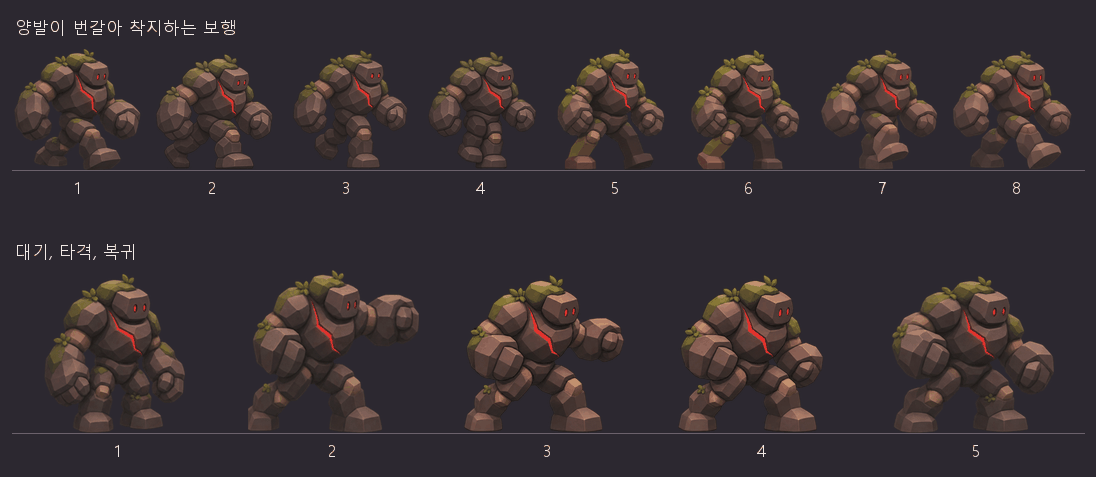
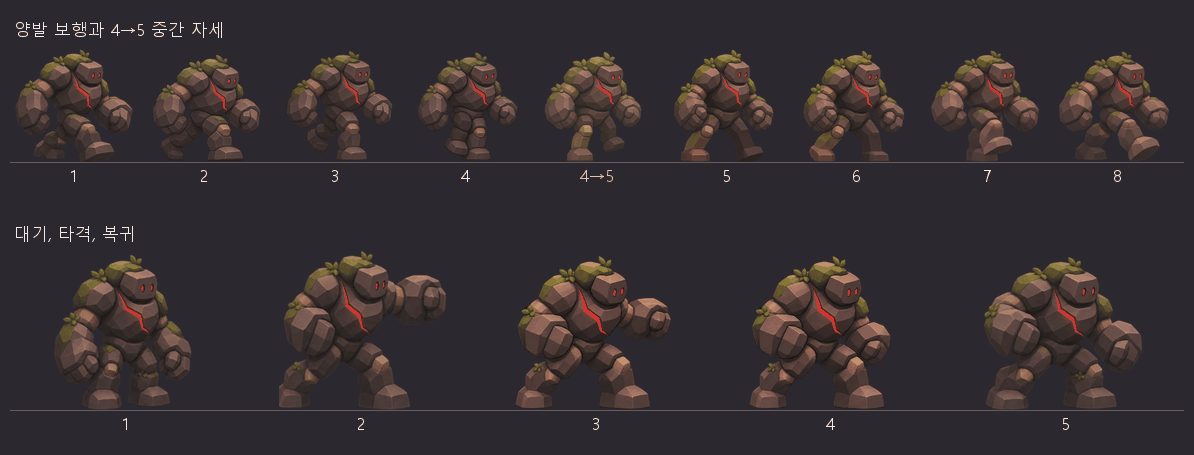
fix(vfx): 이끼바위 골렘의 4·5번 보행 사이 자세 추가

Changed region(s): [[0.0, 0.0308, 0.9927, 0.4], [0.0, 0.4923, 0.9927, 0.9538]]

diff --git a/Assets/Tests/PlayMode/GroundedUnitPosePlayModeTests.cs b/Assets/Tests/PlayMode/GroundedUnitPosePlayModeTests.cs
@@ -17,12 +17,12 @@ namespace WordOnline.Tests
         private const float WalkSpeed = 0.5f;
 
         [UnityTest]
-        public IEnumerator TreeGolemWalksAtBothTickRatesAndShowsTheHitBeforeRecovery() => CheckBothTickRates("TreeGolem");
+        public IEnumerator TreeGolemWalksAtBothTickRatesAndShowsTheHitBeforeRecovery() => CheckBothTickRates("TreeGolem", 8);
 
         [UnityTest]
-        public IEnumerator RockGolemWalksAtBothTickRatesAndShowsTheHitBeforeRecovery() => CheckBothTickRates("RockGolem");
+        public IEnumerator RockGolemWalksAtBothTickRatesAndShowsTheHitBeforeRecovery() => CheckBothTickRates("RockGolem", 9);
 
-        private static IEnumerator CheckBothTickRates(string prefabName)
+        private static IEnumerator CheckBothTickRates(string prefabName, int walkPoseCount)
         {
             var gameConfig = Runtime("GameScene.GameConfig");
             var setTickRate = gameConfig.GetMethod("SetTickRate");
@@ -34,7 +34,7 @@ namespace WordOnline.Tests
                 foreach (int tickRate in new[] { 20, 60 })
                 {
                     setTickRate.Invoke(null, new object[] { tickRate });
-                    yield return CheckAtTickRate(prefabName, tickRate, tickRate == 60 ? -1 : 1);
+                    yield return CheckAtTickRate(prefabName, walkPoseCount, tickRate, tickRate == 60 ? -1 : 1);
                 }
             }
             finally
@@ -44,7 +44,7 @@ namespace WordOnline.Tests
             }
         }
 
-        private static IEnumerator CheckAtTickRate(string prefabName, int tickRate, int direction)
+        private static IEnumerator CheckAtTickRate(string prefabName, int walkPoseCount, int tickRate, int direction)
         {
             var root = new GameObject($"{prefabName}-{tickRate}Hz");
             try
@@ -76,7 +76,7 @@ namespace WordOnline.Tests
                 Sprite hit = Resources.Load<Sprite>($"Game/sprites/{prefabName}2");
                 Assert.That(idle.name, Is.EqualTo(prefabName));
                 Assert.That(attack[0], Is.SameAs(hit));
-                AssertFrames(walk, 8, idle);
+                AssertFrames(walk, walkPoseCount, idle);
                 AssertFrames(attack, 4, hit);
 
                 Type updatedType = Runtime("GameScene.Dto.UpdatedObjectDto");

diff --git a/.art/PRODUCTION-STATUS.md b/.art/PRODUCTION-STATUS.md
@@ -40,7 +40,7 @@
 | `FireTadpole.png` | `concept-art/fire-tadpole.webp` | 차원 유랑종 화산편 방향 적용 |
 | `RockGolem.png` | `concept-art/rock-golem.webp` | 이끼바위 골렘 기본 자세 |
 | `RockGolem2.png` | `game-assets/rock-golem-attack.webp` | 이끼바위 골렘 공격 자세. 이슈 #514에서도 공격 이벤트의 첫 자세로 사용 |
-| `RockGolemWalk01–08.png`, `RockGolemRecover01–03.png` | 클라이언트 이슈 #514 | 256×244, PPU 100, Bottom Center. 가까운 발의 보행 4장을 재사용하고 먼 발의 보행 4장을 새로 그렸다. 실제 지면 이동 0.66칸마다 보행 한 바퀴. 펀치 복귀 3장을 추가해 기존 0.2초 안에서 재생한다. |
+| `RockGolemWalk01–08.png`, `RockGolemWalk04To05.png`, `RockGolemRecover01–03.png` | 클라이언트 이슈 #514 | 256×244, PPU 100, Bottom Center. 보행 9장 중 4번과 5번 사이에 먼 발을 들어 앞으로 내미는 자세가 들어간다. 지면 이동 0.66칸마다 보행 한 바퀴. 펀치 복귀 3장을 추가해 기존 0.2초 안에서 재생한다. |
 | `RockRemnant.png` | `game-assets/rock-remnant.webp` | 사망 후 이동 방해 잔해 |
 | `EarthCall.png` | 클라이언트 PR #181 검수 | 돌 골렘 재사용 이미지를 돌무더기 각성 마법 전용 아트로 교체. `MasterStyleKey.png`·`RockGolem.png`·`ArcaneImpact.png` 고정 앵커를 사용한 2.5D cut-paper 효과다. v2는 내용 비율이 1.01이라 기존 0.89보다 넓어 반려했고, v3는 생성물 0.867·최종 내용 207x238로 원본 212x238과 2.4% 이내다. 최종 256x244 RGBA, Bottom Center, 바닥 여백 0px, 네 모서리 alpha 0, 투명 60.8%, 불투명 픽셀의 magenta 잔색 0, 64px 실루엣 검수 완료 |
 | `TitanRemnant.png` | 클라이언트 이슈 #593 재작업 검수 | 거신의 잔해 본체 |
